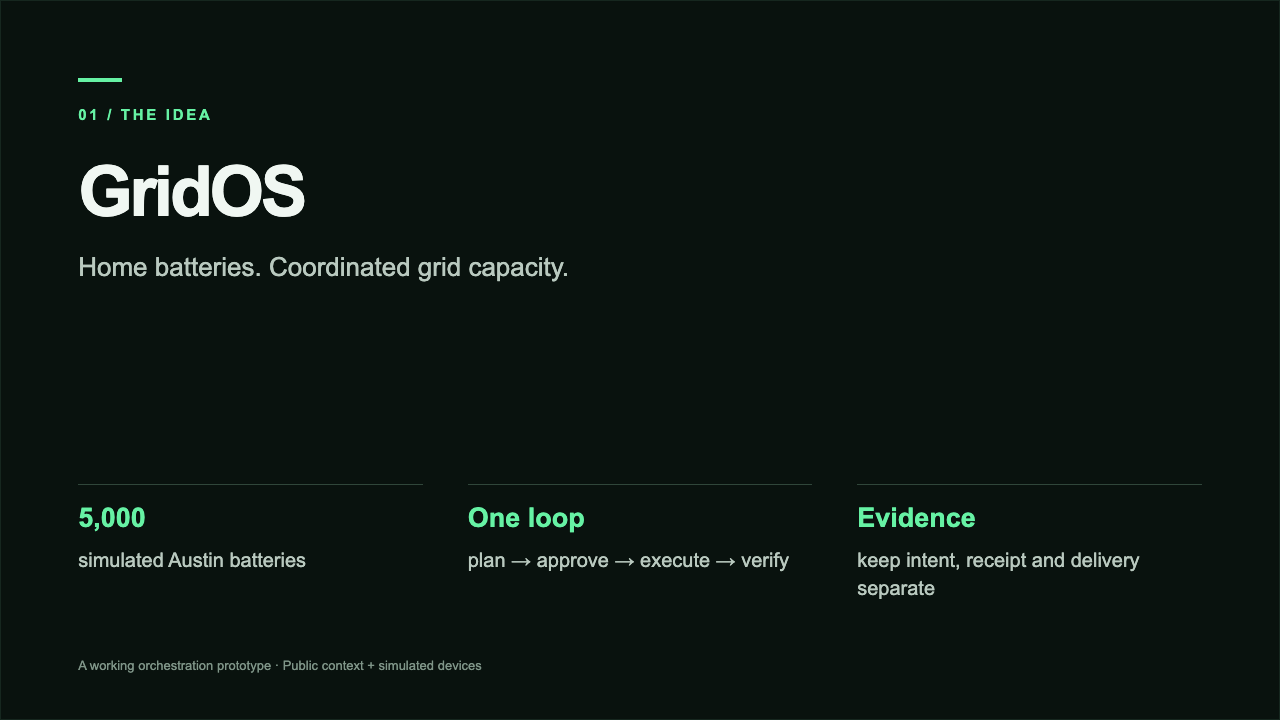
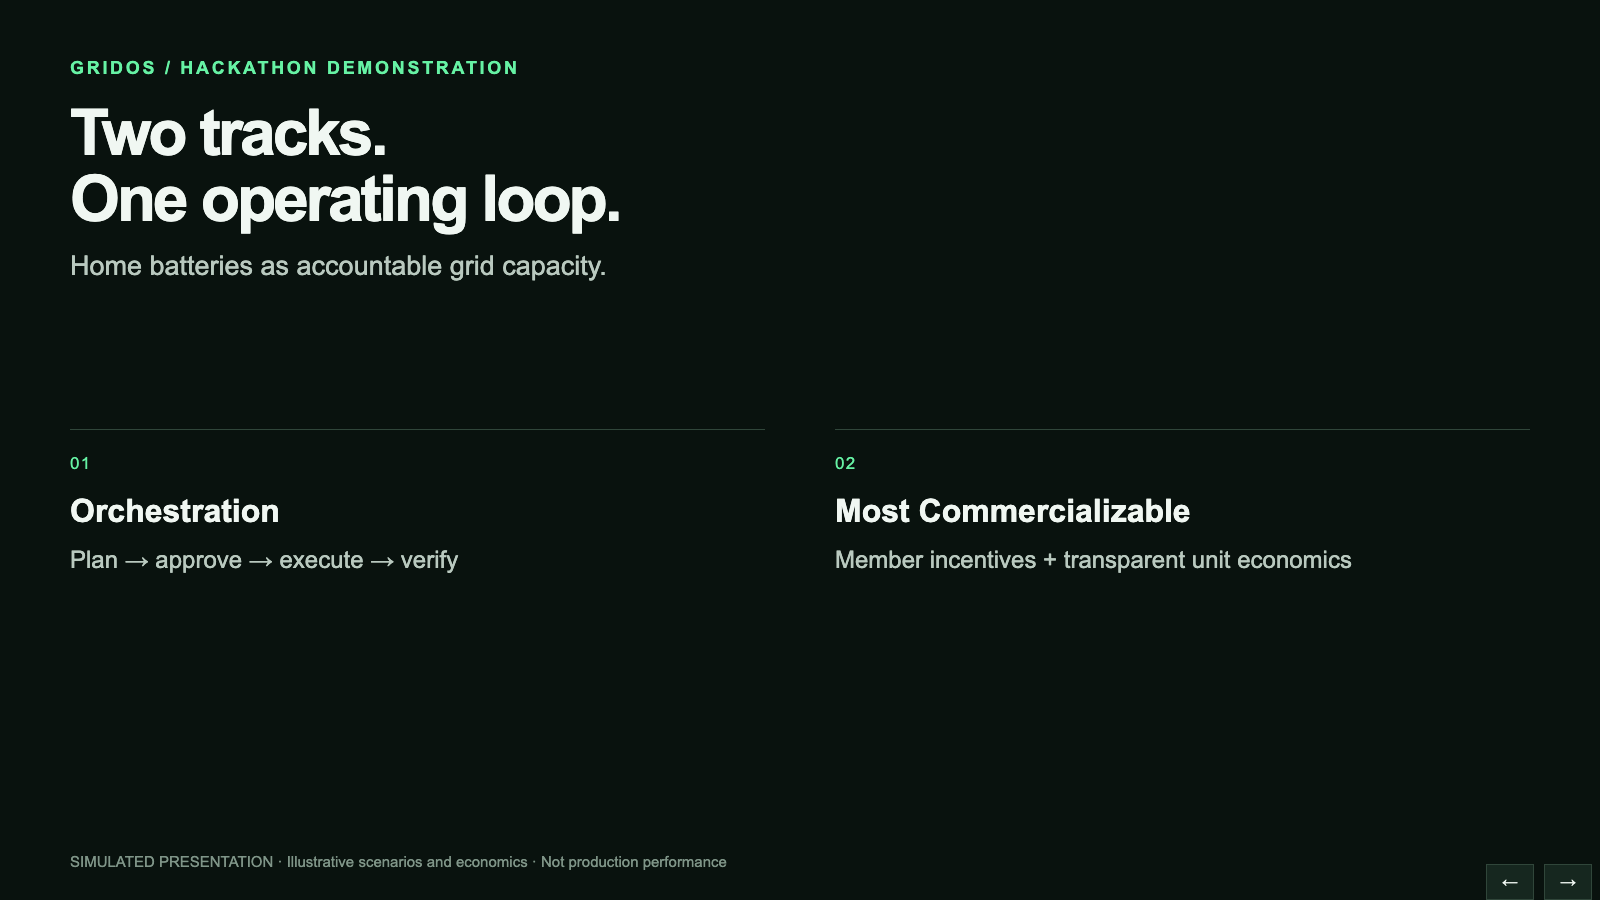
Update demo narration credit

diff --git a/README.md b/README.md
@@ -18,16 +18,16 @@ verified settlement reports on top of what Base already operates).
 [![Watch the narrated GridOS demo](docs/demo/video-poster.png)](https://github.com/Hirom0112/Base-GridOS/releases/download/demo-video-2026-09-27/GridOS-demo.mp4)
 
 [Watch or download the video](https://github.com/Hirom0112/Base-GridOS/releases/download/demo-video-2026-09-27/GridOS-demo.mp4)
-· [Slides](https://github.com/Hirom0112/Base-GridOS/releases/download/demo-video-2026-09-27/GridOS-slides.pdf)
+· [Slides](https://github.com/Hirom0112/Base-GridOS/releases/download/demo-video-2026-09-27/GridOS-tracks.pdf)
 · [System diagram](https://github.com/Hirom0112/Base-GridOS/releases/download/demo-video-2026-09-27/GridOS-architecture.svg)
 · [Captions](https://github.com/Hirom0112/Base-GridOS/releases/download/demo-video-2026-09-27/GridOS-demo.srt)
 
-The narrated walkthrough covers the working console, an existing demonstration
-event, system architecture, failure evidence, delivery reporting, and remaining
-integration limits. Device behavior and telemetry are simulated; financial
-outputs are modeled. Narration uses ElevenLabs' Daniel stock voice. The video
-inspects a recorded event rather than launching a new dispatch or establishing
-that the full integrated acceptance gate has passed.
+The four-minute walkthrough targets **Orchestration** and **Most Commercializable**.
+The video records the actual local application: fleet observation, an existing
+completed event's planning evidence, command and recovery records, delivery and
+reserve reporting, and the member plans and Travel Flex screen. Architecture and
+an illustrative event-cost example connect the operating loop to the business case.
+Device data is simulated. The $400 contribution example uses explicit assumptions.
 
 ## Quick start
 
